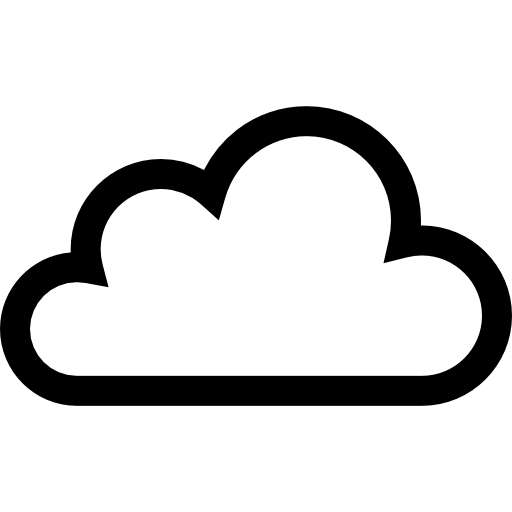
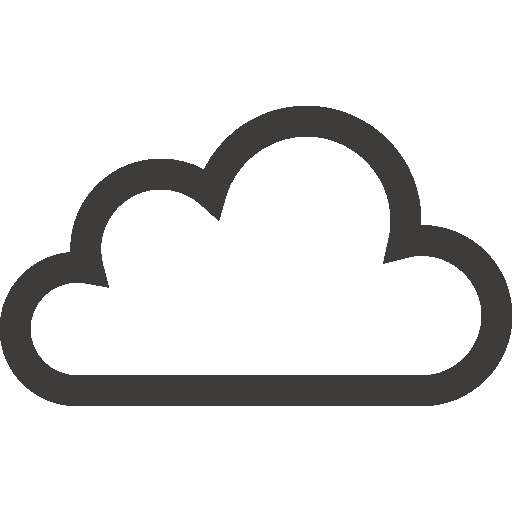
Design fix
- FIx logo and color text in white form authorization

Changed region(s): [[0.0, 0.1875, 1.0, 0.8125]]

diff --git a/src/authorization.cpp b/src/authorization.cpp
@@ -159,7 +159,7 @@ void authorization::setWhiteUI()
                                        "background-color: rgb(241,234,233);"
                                        "color: rgb(61, 60, 59);} "
                                        "QPushButton:hover{background-color:  rgb(221, 214, 213);}");
-    ui->loginLabel->setStyleSheet("font: 34px;color: rgb(0,0,0);");
+    ui->loginLabel->setStyleSheet("font: 34px;color: rgb(61, 60, 59);");
     ui->loginLineEdit->setStyleSheet("color:#989898;background-color: rgb(255, 255, 255);border-radius: 8px;");
     ui->passwordLineEdit->setStyleSheet("color:#989898;background-color: rgb(255, 255, 255);border-radius: 8px;");
     ui->forgotPasswordButton->setStyleSheet("color: rgb(61, 60, 59);");
